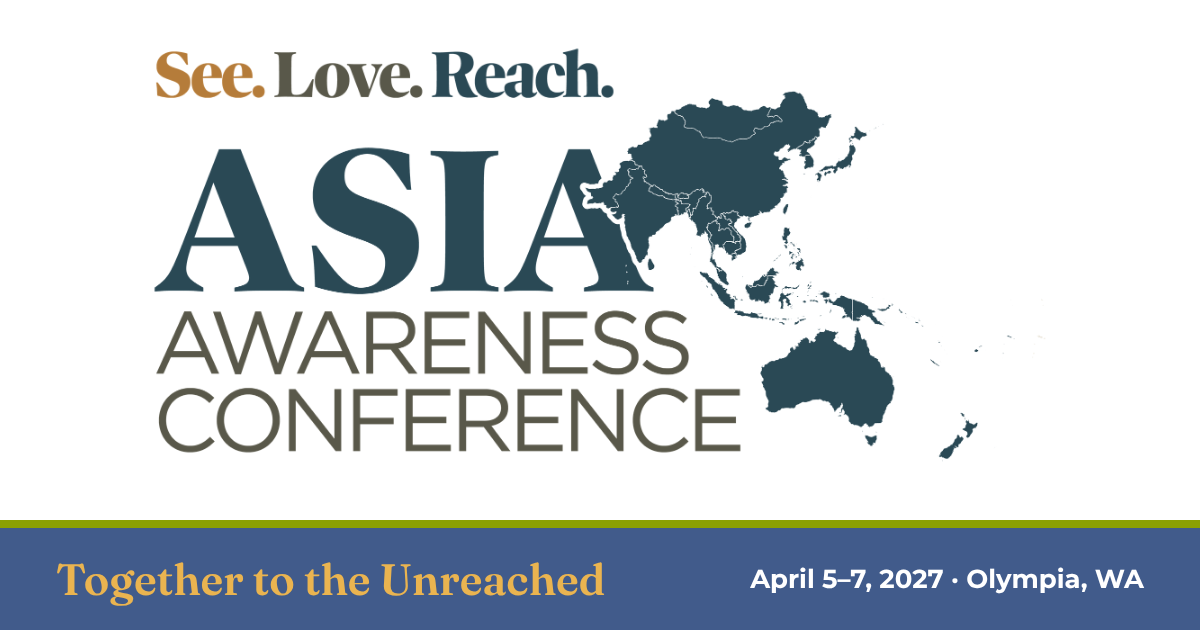
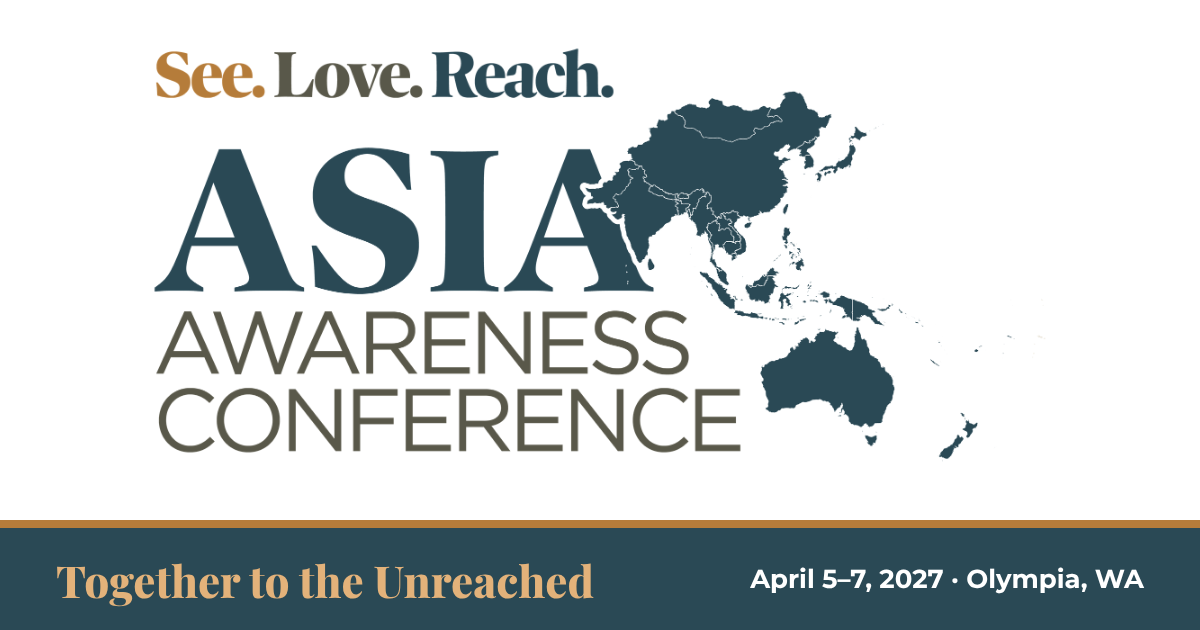
Restyle to the "See. Love. Reach." campaign brand deck
- Campaign palette (teal, paper, olive, copper, charcoal, sand, sage)
  replaces FMI's general palette: teal header/hero/footer and photo
  overlays, copper-light buttons with charcoal text, paper-tone cards,
  copper accent rules. All text pairings AA.
- Playfair Display 800 (Dejanire Headline stand-in) + Montserrat (Gotham).
- Generated contour-line paper texture matching the deck, behind FMI's
  four-region map; share image and downloadable map recolored.
- BRAND-FMI.md now leads with the campaign deck rules.

Claude-Session: https://claude.ai/code/session_01EzBjrMqrEAji9AWHZvxqX2

Changed region(s): [[0.0, 0.8143, 1.0, 1.0]]

diff --git a/styles.css b/styles.css
@@ -1,75 +1,75 @@
 /* ==========================================================================
    Asia Awareness Conference 2027 — styles.css
    --------------------------------------------------------------------------
-   DESIGN TOKENS — Foursquare Missions International (FMI) brand guidelines
-   (2020). See BRAND-FMI.md for the rules these follow.
-   Fonts: FMI specifies Recoleta Alt (display) and Gotham (content), which are
-   licensed fonts not available from Google Fonts. The closest free web
-   equivalents are used: Fraunces for Recoleta Alt and Montserrat for Gotham
-   (both loaded in index.html). If Living Water licenses the real fonts as
-   web fonts, put them first in --font-display / --font-sans.
+   DESIGN TOKENS — "See. Love. Reach." campaign brand deck (FMI, Asia
+   Awareness Conference). See BRAND-FMI.md for the rules these follow.
+   Fonts: the deck specifies Dejanire Headline Extra Bold (display) and
+   Gotham Medium/Book (tagline/content), which are licensed fonts not on
+   Google Fonts. Free stand-ins: Playfair Display 800 for Dejanire and
+   Montserrat for Gotham (both loaded in index.html). If you license the
+   real fonts as web fonts, put them first in --font-display / --font-sans.
    NOTE: index.html has a small inline "critical CSS" block that mirrors the
    tokens marked [critical]. Update both if the brand changes.
    ========================================================================== */
 :root {
-  /* FMI palette (brand guidelines, "Color palette") */
-  --fmi-green: #8BA003;   /* primary (logo globe). Fills, buttons with ink text, decorative rules. Never white text on it (2.9:1), never small text on light */
-  --fmi-gold: #EAB450;    /* fills, buttons with ink text, large display text on navy */
-  --fmi-sky: #5683AA;     /* secondary blue: focus ring, icons */
-  --fmi-navy: #415B8B;    /* dark fields, headings and links on light, photo overlays */
-  --fmi-coral: #DD746E;   /* sparing accent fills only (ink text) */
-  --fmi-gray: #58595B;    /* logo gray: body text on light */
-  /* Derived tints/shades (not in the guide; built from the palette for web contrast) */
-  --fmi-navy-deep: #1B2944;   /* deeper navy for photo shade */
-  --fmi-navy-dark: #34497A;   /* hover */
-  --fmi-gold-light: #F8E3B8;  /* light text on dark fields */
-  --fmi-gold-soft: #FBEBC9;   /* soft panels, badges, icon chips */
-  --fmi-ink: #1F2326;
-  --fmi-mist: #E3E6EC;
-  --fmi-cream: #F8F6F0;       /* background of FMI's regions map */
-  --fmi-white: #FFFFFF;
+  /* Campaign palette (brand deck, "Color palette") */
+  --slr-sand: #CBC0A7;
+  --slr-paper: #DED9CB;     /* page/paper background in the deck */
+  --slr-olive: #59584A;     /* "Love." / AWARENESS CONFERENCE */
+  --slr-teal: #2A4955;      /* "Reach." / ASIA — primary dark */
+  --slr-sage: #77867A;
+  --slr-copper: #B67C3A;    /* "See." — decorative rules; too light for small text (3.1:1 on card) */
+  --slr-charcoal: #252C2D;
+  /* Derived for web contrast (not in the deck; built from the palette) */
+  --slr-copper-light: #E3B27A;  /* buttons (charcoal text 7.4:1), display text on teal (5.0:1) */
+  --slr-teal-dark: #213C46;     /* hover */
+  --slr-teal-deep: #17282F;     /* photo shade */
+  --slr-card: #F4F1EA;          /* light cards */
+  --slr-line: #D9D3C4;          /* borders on light */
+  --slr-white: #FFFFFF;
 
   /* Color — surfaces & text (light scheme: cards, no-JS fallback) */
-  --color-bg: var(--fmi-cream);           /* [critical] page background */
-  --color-surface: var(--fmi-white);
-  --color-surface-raised: var(--fmi-white); /* cards */
-  --color-text: var(--fmi-gray);          /* [critical] 7.0:1 on white */
-  --color-text-muted: #6A6B6E;            /* 5.3:1 on white */
-  --color-heading: var(--fmi-navy);       /* [critical] 6.8:1 on white */
-  --color-border: var(--fmi-mist);
+  --color-bg: var(--slr-paper);           /* [critical] page background */
+  --color-surface: var(--slr-card);
+  --color-surface-raised: var(--slr-card); /* cards */
+  --color-text: var(--slr-charcoal);      /* [critical] 12.6:1 on card */
+  --color-text-muted: var(--slr-olive);   /* 6.4:1 on card */
+  --color-heading: var(--slr-teal);       /* [critical] 8.5:1 on card */
+  --color-border: var(--slr-line);
 
   /* Color — interactive */
-  --color-primary: var(--fmi-navy);       /* [critical] secondary buttons, schedule headers */
-  --color-primary-hover: var(--fmi-navy-dark);
-  --color-on-primary: var(--fmi-white);   /* 6.8:1 */
-  --color-cta: var(--fmi-green);          /* [critical] primary button fill */
-  --color-cta-hover: var(--fmi-gold);
-  --color-on-cta: var(--fmi-ink);         /* [critical] 5.4:1 on green, 8.4:1 on gold */
-  --color-link: var(--fmi-navy);          /* 6.8:1 on white */
-  --color-link-hover: var(--fmi-navy-deep);
-  --color-accent: var(--fmi-navy);        /* eyebrows on light */
-  --color-accent-soft: var(--fmi-gold-soft);
-  --color-accent-line: var(--fmi-green);  /* decorative rules only */
+  --color-primary: var(--slr-teal);       /* [critical] secondary buttons, schedule headers */
+  --color-primary-hover: var(--slr-teal-dark);
+  --color-on-primary: var(--slr-white);   /* 9.6:1 */
+  --color-cta: var(--slr-copper-light);   /* [critical] primary button fill */
+  --color-cta-hover: var(--slr-paper);
+  --color-on-cta: var(--slr-charcoal);    /* [critical] 7.4:1 on copper-light, 10.1:1 on paper */
+  --color-link: var(--slr-teal);          /* 8.5:1 on card */
+  --color-link-hover: var(--slr-teal-deep);
+  --color-accent: var(--slr-teal);        /* eyebrows on light */
+  --color-accent-soft: var(--slr-paper);  /* badges, icon chips: teal on paper 6.8:1 */
+  --color-accent-line: var(--slr-copper); /* decorative rules only */
 
   /* Color — dark bands (header, hero, footer) */
-  --color-dark: var(--fmi-navy);          /* [critical] */
-  --color-on-dark: var(--fmi-white);      /* [critical] 6.8:1 */
-  --color-on-dark-muted: var(--fmi-gold-light); /* [critical] 5.4:1 */
-  --color-on-dark-display: var(--fmi-gold);     /* [critical] large text only (3.6:1) */
-  --color-dark-deep: var(--fmi-navy-deep);      /* scroll shade over the hero photos */
-  --color-panel: rgba(27, 41, 68, 0.50);        /* section panels over the (shaded) photos */
-  --color-panel-alt: rgba(65, 91, 139, 0.60);
-  --color-panel-solo: rgba(27, 41, 68, 0.85);   /* safe with no shade at all: first section, and no-JS */
+  --color-dark: var(--slr-teal);          /* [critical] */
+  --color-on-dark: var(--slr-white);      /* [critical] 9.6:1 */
+  --color-on-dark-muted: var(--slr-paper); /* [critical] 6.8:1 */
+  --color-on-dark-display: var(--slr-copper-light); /* [critical] 5.0:1 */
+  --color-dark-deep: var(--slr-teal-deep);      /* scroll shade over the hero photos */
+  --color-panel: rgba(23, 40, 47, 0.50);        /* section panels over the (shaded) photos */
+  --color-panel-alt: rgba(42, 73, 85, 0.60);
+  --color-panel-solo: rgba(23, 40, 47, 0.85);   /* safe with no shade at all: first section, and no-JS */
 
   /* Focus ring */
-  --color-focus: var(--fmi-sky);          /* [critical] 4.0:1 on white */
-  --color-focus-on-dark: var(--fmi-gold); /* [critical] */
+  --color-focus: var(--slr-teal);         /* [critical] */
+  --color-focus-on-dark: var(--slr-copper-light); /* [critical] */
 
   /* Typography */
-  --font-sans: "Montserrat", "Gotham", "Helvetica Neue", Arial, sans-serif;          /* [critical] Gotham substitute */
-  --font-display: "Fraunces", "Recoleta Alt", Georgia, "Times New Roman", serif;     /* [critical] Recoleta Alt substitute */
+  --font-sans: "Montserrat", "Gotham", "Helvetica Neue", Arial, sans-serif;                 /* [critical] Gotham stand-in */
+  --font-display: "Playfair Display", "Dejanire Headline", Georgia, "Times New Roman", serif; /* [critical] Dejanire stand-in */
   --fw-regular: 400;
   --fw-semibold: 600;
+  --fw-display: 800;            /* deck: Dejanire Headline Extra Bold */
   --fw-bold: 700;
   --lh-tight: 1.08;
   --lh-heading: 1.18;
@@ -107,7 +107,7 @@
   --radius-md: 12px;
   --radius-lg: 24px;
   --radius-pill: 999px;
-  --shadow-card: 0 1px 2px rgba(27, 41, 68, .10), 0 6px 18px rgba(27, 41, 68, .10);
+  --shadow-card: 0 1px 2px rgba(23, 40, 47, .10), 0 6px 18px rgba(23, 40, 47, .10);
 
   /* Motion */
   --transition: 150ms ease;
@@ -148,9 +148,10 @@ h1, h2, h3, h4 {
   color: var(--color-heading);
 }
 h1, h2 { letter-spacing: var(--tracking-display); }
-h2, h3 { font-weight: var(--fw-semibold); }
+h2 { font-weight: var(--fw-display); }
+h3 { font-weight: var(--fw-bold); }
 h2 { font-size: var(--fs-xl); line-height: var(--lh-heading); }
-h3 { font-size: var(--fs-h3); font-weight: var(--fw-semibold); line-height: 1.2; }
+h3 { font-size: var(--fs-h3); line-height: 1.2; }
 .on-dark h1, .on-dark h2, .on-dark h3 { color: var(--color-on-dark); }
 p { margin: 0 0 var(--space-sm); }
 
@@ -270,14 +271,14 @@ a:hover { color: var(--color-link-hover); }
 .section {
   position: relative; padding-block: var(--space-2xl);
   background: var(--color-panel);
-  --color-text: var(--fmi-white);
-  --color-heading: var(--fmi-white);
-  --color-text-muted: var(--fmi-gold-light);
-  --color-link: var(--fmi-gold-light);
-  --color-link-hover: var(--fmi-white);
-  --color-accent: var(--fmi-gold-light);
+  --color-text: var(--slr-white);
+  --color-heading: var(--slr-white);
+  --color-text-muted: var(--slr-paper);
+  --color-link: var(--slr-paper);
+  --color-link-hover: var(--slr-white);
+  --color-accent: var(--slr-paper);
   --color-border: rgba(255, 255, 255, 0.28);
-  --color-focus: var(--fmi-gold);
+  --color-focus: var(--slr-copper-light);
   color: var(--color-text);
 }
 .section--alt { background: var(--color-panel-alt); }
@@ -285,14 +286,14 @@ a:hover { color: var(--color-link-hover); }
 
 /* White surfaces inside sections switch back to the light (default) scheme. */
 .card, .day, .speaker, .hotel, .callout, .badge {
-  --color-text: var(--fmi-gray);
-  --color-heading: var(--fmi-navy);
-  --color-text-muted: #6A6B6E;
-  --color-link: var(--fmi-navy);
-  --color-link-hover: var(--fmi-navy-deep);
-  --color-accent: var(--fmi-navy);
-  --color-border: var(--fmi-mist);
-  --color-focus: var(--fmi-sky);
+  --color-text: var(--slr-charcoal);
+  --color-heading: var(--slr-teal);
+  --color-text-muted: var(--slr-olive);
+  --color-link: var(--slr-teal);
+  --color-link-hover: var(--slr-teal-deep);
+  --color-accent: var(--slr-teal);
+  --color-border: var(--slr-line);
+  --color-focus: var(--slr-teal);
   color: var(--color-text);
 }
 .section__header { max-width: var(--container-narrow); margin-bottom: var(--space-xl); }
@@ -324,7 +325,7 @@ a:hover { color: var(--color-link-hover); }
 .hero .container { position: relative; }
 .hero__title { font-size: var(--fs-2xl); line-height: var(--lh-tight); margin-bottom: var(--space-sm); letter-spacing: var(--tracking-display); }
 .hero__theme {
-  font-family: var(--font-display); font-size: var(--fs-xl); font-weight: var(--fw-bold); line-height: var(--lh-heading);
+  font-family: var(--font-display); font-size: var(--fs-xl); font-weight: var(--fw-display); line-height: var(--lh-heading);
   color: var(--color-on-dark-display); margin-bottom: var(--space-lg);
 }
 /* --- Rotating hero photos ----------------------------------------------
@@ -354,7 +355,7 @@ a:hover { color: var(--color-link-hover); }
 }
 .hero-slides::after {
   content: ""; position: absolute; inset: 0; z-index: 1; pointer-events: none;
-  background: linear-gradient(180deg, rgba(65, 91, 139, 0) calc(4rem + 62vw - 96px), var(--color-dark) calc(4rem + 62vw));
+  background: linear-gradient(180deg, rgba(42, 73, 85, 0) calc(4rem + 62vw - 96px), var(--color-dark) calc(4rem + 62vw));
   opacity: calc(1 - var(--grow, 0));
 }
 .hero-shade {
@@ -390,8 +391,8 @@ html:not(.js) .hero__controls { display: none; }
   .hero-slides::after {
     background: linear-gradient(90deg,
       var(--color-dark) 0, var(--color-dark) var(--hero-solid-end),
-      rgba(65, 91, 139, 0.55) calc(var(--hero-solid-end) + 10vw),
-      rgba(65, 91, 139, 0.05) 100%);
+      rgba(42, 73, 85, 0.55) calc(var(--hero-solid-end) + 10vw),
+      rgba(42, 73, 85, 0.05) 100%);
   }
   .hero--slides { position: relative; display: flex; align-items: center; min-height: min(88vh, 820px); }
   .hero__stage { position: absolute; inset: 0; z-index: 1; height: auto; min-height: 0; pointer-events: none; }
@@ -441,21 +442,21 @@ html:not(.js) .hero__controls { display: none; }
 
 /* --- Region map (Why Asia) -------------------------------------------- */
 .region-map { margin: var(--space-xl) auto 0; max-width: 900px; }
-.region-map__card { border-radius: var(--radius-md); overflow: hidden; box-shadow: 0 8px 32px rgba(0, 0, 0, 0.35); background: var(--fmi-cream); }
+.region-map__card { border-radius: var(--radius-md); overflow: hidden; box-shadow: 0 8px 32px rgba(0, 0, 0, 0.35); background: var(--slr-paper) url("assets/brand/paper-contours.jpg") 0 0 / 600px 600px repeat; }
 .region-map__title {
-  background: var(--fmi-navy); color: var(--fmi-white); text-align: center;
+  background: var(--slr-teal); color: var(--slr-white); text-align: center;
   padding: var(--space-md) var(--space-md) var(--space-md);
-  border-bottom: 6px solid var(--fmi-green);  /* FMI green rule, decorative */
+  border-bottom: 6px solid var(--slr-copper);  /* FMI green rule, decorative */
 }
 .region-map__tagline {
-  margin: 0; font-family: var(--font-display); font-weight: var(--fw-semibold);
+  margin: 0; font-family: var(--font-display); font-weight: var(--fw-display);
   font-size: clamp(2rem, 1.3rem + 3.2vw, 3.75rem); line-height: 1.05; letter-spacing: var(--tracking-display);
-  color: var(--fmi-white);                     /* 6.8:1 on navy */
+  color: var(--slr-white);                     /* 6.8:1 on navy */
 }
 .region-map__name {
   margin: var(--space-2xs) 0 0; font-family: var(--font-sans); font-weight: var(--fw-bold);
   font-size: clamp(0.8125rem, 0.7rem + 0.5vw, 1.0625rem); text-transform: uppercase; letter-spacing: 0.16em;
-  color: var(--fmi-gold-light);                /* 5.4:1 on navy */
+  color: var(--slr-paper);                /* 5.4:1 on navy */
 }
 .region-map__link { display: block; overflow: hidden; }
 .region-map__link img { width: 100%; height: auto; transition: transform 300ms ease; }

diff --git a/index.html b/index.html
@@ -5,7 +5,7 @@
 <meta name="viewport" content="width=device-width, initial-scale=1">
 <title>See. Love. Reach. ASIA · Asia Awareness Conference 2027 · Living Water Foursquare</title>
 <meta name="description" content="See. Love. Reach. ASIA: Asia Awareness Conference 2027. Together to the Unreached. April 5–7, 2027 at Living Water Foursquare Church, Olympia, WA, hosted in partnership with Foursquare Missions International.">
-<meta name="theme-color" content="#415B8B">
+<meta name="theme-color" content="#2A4955">
 <!-- PLACEHOLDER: set the final public URL -->
 <link rel="canonical" href="https://jcobler77.github.io/asiaawareness/">
 
@@ -13,11 +13,11 @@
 <link rel="icon" type="image/png" sizes="64x64" href="assets/brand/conference-icon-64.png">
 <link rel="apple-touch-icon" sizes="180x180" href="assets/brand/conference-icon-180.png">
 
-<!-- Brand fonts: FMI specifies Recoleta Alt + Gotham (licensed). Free stand-ins: Fraunces (display) + Montserrat (body). Non-blocking, swap. -->
+<!-- Brand fonts: the campaign deck specifies Dejanire Headline + Gotham (licensed). Free stand-ins: Playfair Display (display) + Montserrat (body). Non-blocking, swap. -->
 <link rel="preconnect" href="https://fonts.googleapis.com">
 <link rel="preconnect" href="https://fonts.gstatic.com" crossorigin>
-<link rel="stylesheet" href="https://fonts.googleapis.com/css2?family=Fraunces:opsz,wght@9..144,500..700&amp;family=Montserrat:ital,wght@0,400..700;1,400&amp;display=swap" media="print" onload="this.media='all'">
-<noscript><link rel="stylesheet" href="https://fonts.googleapis.com/css2?family=Fraunces:opsz,wght@9..144,500..700&amp;family=Montserrat:ital,wght@0,400..700;1,400&amp;display=swap"></noscript>
+<link rel="stylesheet" href="https://fonts.googleapis.com/css2?family=Playfair+Display:wght@700..900&amp;family=Montserrat:ital,wght@0,400..700;1,400&amp;display=swap" media="print" onload="this.media='all'">
+<noscript><link rel="stylesheet" href="https://fonts.googleapis.com/css2?family=Playfair+Display:wght@700..900&amp;family=Montserrat:ital,wght@0,400..700;1,400&amp;display=swap"></noscript>
 
 <!-- Open Graph -->
 <meta property="og:type" content="website">
@@ -40,7 +40,7 @@
 <!-- Critical CSS: just enough to paint the header and hero before styles.css arrives.
      Color values mirror the [critical] tokens in styles.css :root. Keep them in sync. -->
 <style>
-:root{--color-bg:#F8F6F0;--color-text:#58595B;--color-heading:#415B8B;--color-primary:#415B8B;--color-cta:#8BA003;--color-on-cta:#1F2326;--color-dark:#415B8B;--color-on-dark:#FFFFFF;--color-on-dark-muted:#F8E3B8;--color-on-dark-display:#EAB450;--color-focus:#5683AA;--color-focus-on-dark:#EAB450;--font-sans:"Montserrat","Gotham","Helvetica Neue",Arial,sans-serif;--font-display:"Fraunces","Recoleta Alt",Georgia,"Times New Roman",serif}
+:root{--color-bg:#DED9CB;--color-text:#252C2D;--color-heading:#2A4955;--color-primary:#2A4955;--color-cta:#E3B27A;--color-on-cta:#252C2D;--color-dark:#2A4955;--color-on-dark:#FFFFFF;--color-on-dark-muted:#DED9CB;--color-on-dark-display:#E3B27A;--color-focus:#2A4955;--color-focus-on-dark:#E3B27A;--font-sans:"Montserrat","Gotham","Helvetica Neue",Arial,sans-serif;--font-display:"Playfair Display","Dejanire Headline",Georgia,"Times New Roman",serif}
 *,*::before,*::after{box-sizing:border-box}
 body{margin:0;font-family:var(--font-sans);font-size:1.0625rem;line-height:1.65;color:var(--color-text);background:var(--color-bg)}
 img,svg{max-width:100%;height:auto;display:block}
@@ -57,7 +57,7 @@ img,svg{max-width:100%;height:auto;display:block}
 .site-nav a{color:var(--color-on-dark)}
 .hero{background:var(--color-dark);color:var(--color-on-dark);padding-block:64px}
 .hero__logo img{width:min(100%,560px);height:auto}.hero h1{font-family:var(--font-display);color:var(--color-on-dark);font-size:clamp(2.75rem,1.6rem + 4.6vw,4.75rem);line-height:1.08;letter-spacing:-.01em;margin:0 0 1rem}
-.hero__title-sub{display:block;margin-top:.75rem;font-family:var(--font-sans);font-weight:700;text-transform:uppercase;font-size:clamp(1rem,.8rem + .9vw,1.375rem);line-height:1.3;letter-spacing:.12em}.hero__theme{font-family:var(--font-display);font-weight:700;font-size:clamp(1.75rem,1.4rem + 1.4vw,2.25rem);line-height:1.15;color:var(--color-on-dark-display)}
+.hero__title-sub{display:block;margin-top:.75rem;font-family:var(--font-sans);font-weight:700;text-transform:uppercase;font-size:clamp(1rem,.8rem + .9vw,1.375rem);line-height:1.3;letter-spacing:.12em}.hero__theme{font-family:var(--font-display);font-weight:800;font-size:clamp(1.75rem,1.4rem + 1.4vw,2.25rem);line-height:1.15;color:var(--color-on-dark-display)}
 .hero-slides{position:fixed;inset:0;z-index:-1;margin:0;background:var(--color-dark)}.hero-slide{position:absolute;inset:0 0 auto 0;height:calc(4rem + 62vw);margin:0;opacity:0}.hero-slide.is-active{opacity:1}.hero-slide img{width:100%;height:100%;object-fit:cover;object-position:var(--pos,center)}.hero--slides{background:transparent;padding:0}.hero__stage{height:62vw;min-height:200px}.hero__panel{background:var(--color-dark);padding-block:48px}.hero__controls{display:none}@media (min-width:60em){.hero-slide{inset:0;height:auto}.hero__stage{height:0;min-height:0}.hero__panel{background:transparent}.hero--slides{min-height:min(88vh,820px);display:flex;align-items:center}}
 .hero__meta{list-style:none;padding:0}.hero__map-link{color:inherit}
 .hero__meta svg{width:1.25rem}

diff --git a/BRAND-FMI.md b/BRAND-FMI.md
@@ -1,5 +1,64 @@
-# FMI brand rules for this site
+# Brand rules for this site
 
+> **Current source of truth: the "See. Love. Reach." campaign brand deck** (`SeeLoveReach_AsiaAwareness_BrandDeck.pdf`,
+> FMI, in the Google Drive folder "Asia Awareness Assets"). Its palette and fonts replace FMI's general
+> palette on this site. FMI's general guidelines (further down) still govern the FMI logo itself.
+
+## "See. Love. Reach." campaign (brand deck)
+
+- **Campaign name:** See. Love. Reach.
+- **Campaign tagline:** "See the Unseen. Love the Lost. Reach the Unreached."
+- **Conference lockup:** "See. Love. Reach." over "ASIA" over "AWARENESS CONFERENCE", with the Asia map.
+  There is also a horizontal header version.
+- **Purpose:** mobilize the global Foursquare community.
+  - Raise awareness of unreached people groups: UPGs, UUPGs, FPGs and Limited Access Areas.
+  - Inspire engagement through prayer, giving and action.
+  - Raise support for FMI's Global Missions Fund, culminating in a missions offering at Foursquare
+    Connection.
+- **Audiences:** senior pastors and credentialed ministers, missions leaders, individual donors and
+  supporters.
+
+### Colors
+
+| Name | HEX | Used on this site for |
+|---|---|---|
+| Sand | `#CBC0A7` | not used yet |
+| Paper | `#DED9CB` | page/paper background, map card, light text on teal |
+| Olive | `#59584A` | muted text on light cards |
+| Teal | `#2A4955` | header, hero, footer, schedule headers, headings and links on light, photo overlays |
+| Sage | `#77867A` | not used yet (too light for text on light, 3.4:1) |
+| Copper | `#B67C3A` | decorative rules and accent bars only (3.1:1 on light, so never small text) |
+| Charcoal | `#252C2D` | body text on light, button text |
+
+The deck's charcoal swatch lists RGB 139, 160, 3, which is FMI green, but its CMYK, HEX and the swatch
+itself are charcoal. The site uses the HEX value, `#252C2D`.
+
+**Derived for web contrast:**
+- copper-light `#E3B27A`:
+  - button fill with charcoal text (7.4:1);
+  - large display text on teal (5.0:1).
+- teal-deep `#17282F`: the photo shade.
+- card `#F4F1EA`: light cards.
+
+### Fonts
+
+| Role | Deck | Free web stand-in used here |
+|---|---|---|
+| Display | **Dejanire Headline Extra Bold** | **Playfair Display** 800 |
+| Tagline | **Gotham Medium** | Montserrat 500–700 |
+| Content | **Gotham Book** | Montserrat 400 |
+
+### Look and imagery
+
+- **Paper:** warm beige paper with faint topographic contour lines.
+  `assets/brand/paper-contours.jpg` is a generated, seamless match, used behind the map card.
+- **Photos:** real people across Asia, often clipped into organic, country-like shapes.
+- **Map:** FMI's four-region map (South Asia, North Asia, Southeast Asia, South Pacific) on the paper
+  background.
+
+---
+
+# FMI general brand guidelines (2020)
 Summary of the **Foursquare Missions International Brand Guidelines (2020)**, provided by Foursquare,
 and how this site applies them. Follow these for any future change to the site.
 
@@ -25,6 +84,9 @@ and how this site applies them. Follow these for any future change to the site.
 
 ## Color palette (from the guide)
 
+> Superseded on this site by the campaign palette above. The "Used on this site" column describes the
+> earlier FMI-styled version of the site.
+
 | Name | HEX | RGB | Used on this site for |
 |---|---|---|---|
 | Green (primary) | `#8BA003` | 139, 160, 3 | primary buttons (dark text), decorative rules, eyebrow bars |
@@ -46,6 +108,8 @@ and how this site applies them. Follow these for any future change to the site.
 - Green is never used as text.
 
 ## Typography
+
+> Superseded on this site by the campaign fonts above (Playfair Display + Montserrat).
 
 | Role | FMI font | Free web stand-in used here |
 |---|---|---|

diff --git a/README.md b/README.md
@@ -59,13 +59,13 @@ with the site's CSS.
 
 ## Brand
 
-The site follows the **Foursquare Missions International (FMI) brand guidelines**. The rules are in
+The site follows the **"See. Love. Reach." campaign brand deck** from FMI. The rules are in
 **[BRAND-FMI.md](BRAND-FMI.md)**; read them before changing colors, fonts or logos.
 
-- **Tokens:** the FMI palette (`--fmi-*`) and the page's design tokens live in `:root` at the top of
-  `styles.css`.
-- **Fonts:** FMI specifies Recoleta Alt and Gotham, which are licensed fonts. The site uses the free
-  stand-ins Fraunces and Montserrat from Google Fonts. Swap in the real fonts if you get web licenses.
+- **Tokens:** the campaign palette (`--slr-*`) and the page's design tokens live in `:root` at the
+  top of `styles.css`.
+- **Fonts:** the deck specifies Dejanire Headline and Gotham, which are licensed fonts. The site uses
+  the free stand-ins Playfair Display and Montserrat from Google Fonts.
 - **Source files:** the master brand files live in the Google Drive folder **"Asia Awareness Assets"**:
   - the brand deck (`SeeLoveReach_AsiaAwareness_BrandDeck.pdf`);
   - conference logos;
